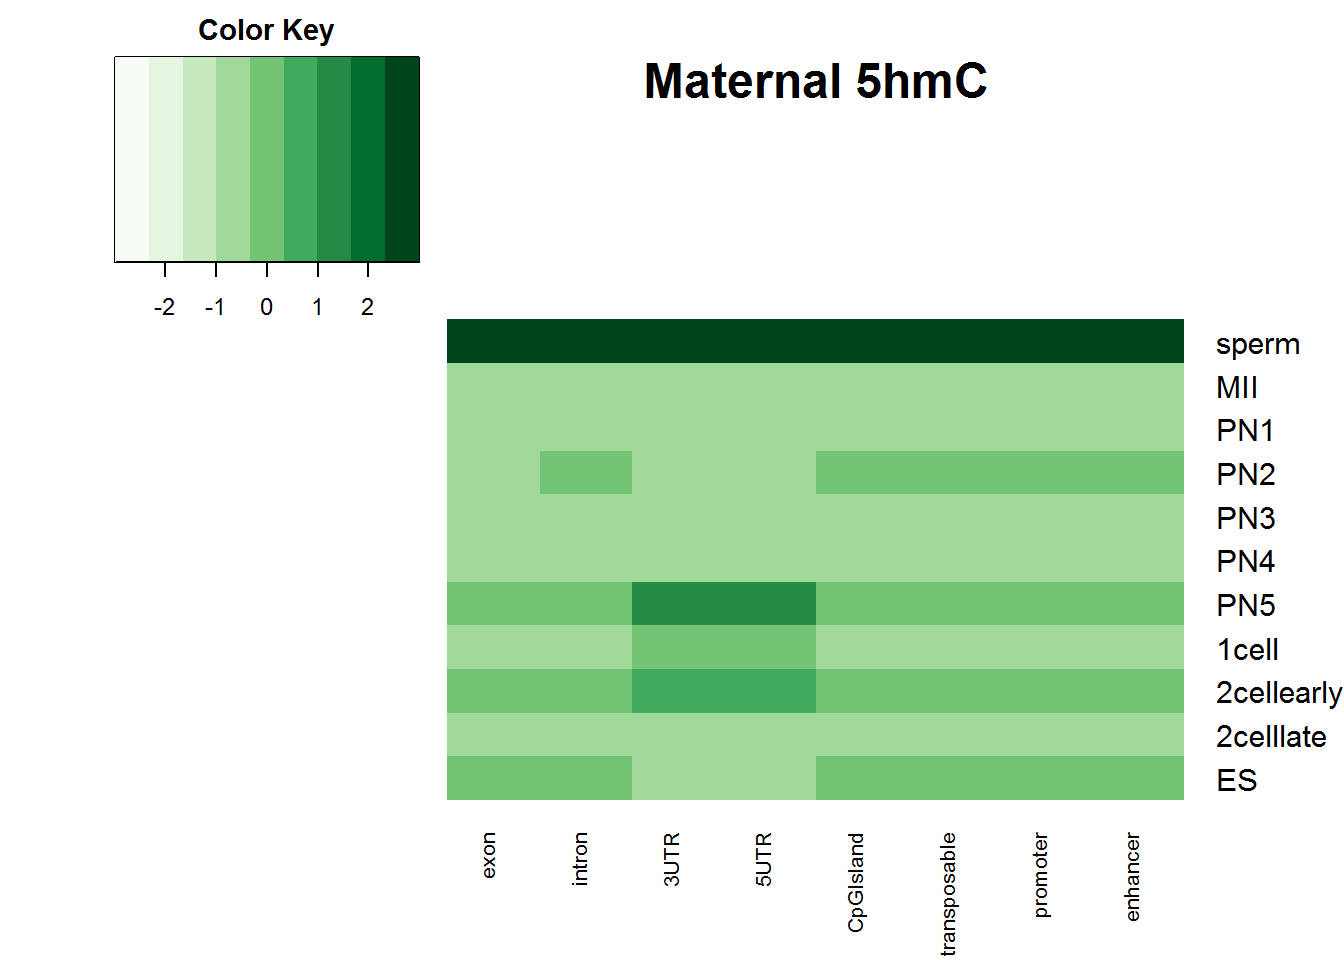
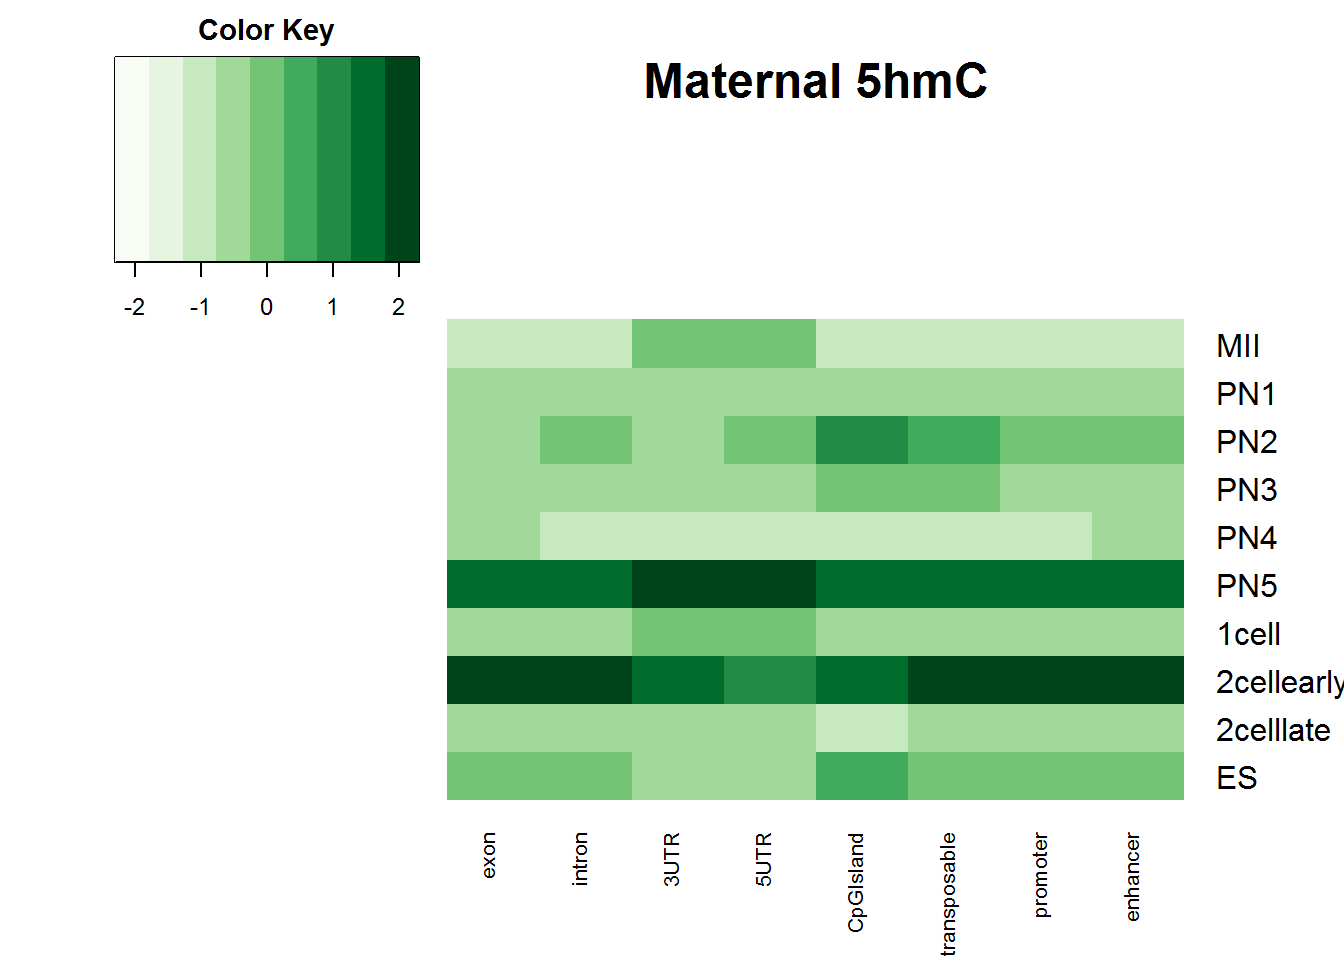
Mar92018

Changed region(s): [[0.3125, 0.3125, 1.0, 0.8438], [0.3438, 0.7812, 0.4688, 0.8125], [0.0938, 0.3125, 0.1562, 0.3438]]

diff --git a/docs/Sample-with-spikein.html b/docs/Sample-with-spikein.html
@@ -317,7 +317,7 @@ shared across the workflowr files. -->
 <p><strong>Last updated:</strong> 2018-03-09</p>
 <!-- Insert the code version (Git commit SHA1) if Git repository exists and R
  package git2r is installed -->
-<p><strong>Code version:</strong> 237f8e6</p>
+<p><strong>Code version:</strong> d22b5be</p>
 <!-- Add your analysis here -->
 <p>All analysiz have been adjusted with spike in sample.</p>
 <div id="rep1-20180113" class="section level2">
